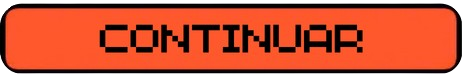
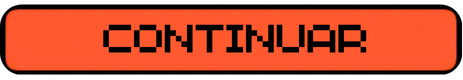
Implementado GestorAudio

diff --git a/src/modelo/GestorAudio.java b/src/modelo/GestorAudio.java
@@ -1,0 +1,117 @@
+package modelo;
+
+import java.io.File;
+import java.util.HashMap;
+import java.util.Map;
+
+import javax.sound.sampled.AudioInputStream;
+import javax.sound.sampled.AudioSystem;
+import javax.sound.sampled.Clip;
+
+import javafx.application.Platform;
+import javafx.scene.media.Media;
+import javafx.scene.media.MediaPlayer;
+
+public class GestorAudio { //Aplica patron Singleton
+	
+	private MediaPlayer musicaFondo;
+    private static GestorAudio instancia;
+
+    private final Map<String, Clip> sonidos = new HashMap<>();
+    private final Map<String, Long> duraciones = new HashMap<>();
+	
+    private GestorAudio(){
+        //FALTA PONER LOS SONIDOS
+        this.cargar("boton-enter"); 
+        this.cargar("boton-hover");
+        this.cargar("boton-click");
+    }
+
+    public static GestorAudio getInstancia(){
+        if (instancia == null){
+            instancia = new GestorAudio();
+        }
+        return instancia;
+    }
+
+    private void cargar(String nombre) { //El SFX debe ser .wav, .mp3 no es compatible
+        File archivo = new File("src/assets/sfx/", nombre + ".wav");
+        try (AudioInputStream flujo = AudioSystem.getAudioInputStream(archivo)) {
+            long milisegundos = (long) (1000 * flujo.getFrameLength() / flujo.getFormat().getFrameRate());
+            Clip clip = AudioSystem.getClip();
+            clip.open(flujo);
+            this.sonidos.put(nombre, clip);
+            this.duraciones.put(nombre, milisegundos);
+        } catch (Exception e) {
+            System.err.println("Fallo al cargar: " + archivo.getAbsolutePath());
+            e.printStackTrace();
+        }
+    }
+
+    public void reproducirEfecto(String nombre) {
+        Clip clip = sonidos.get(nombre);
+        if (clip != null) {
+            clip.setFramePosition(0); // Lo rebobina al inicio
+            clip.start();             // Le da play
+        } else {
+            System.out.println("El efecto '" + nombre + "' no está cargado.");
+        }
+    }
+
+	public void reproducirMusica(String rutaArchivo, double volumen, boolean enBucle) {
+        Platform.runLater(() -> {
+            try {
+                detenerMusica();
+
+                File archivo = new File(rutaArchivo);
+                if (!archivo.exists()) {
+                    System.out.println("Audio no encontrado en: " + rutaArchivo);
+                    return;
+                }
+
+                Media media = new Media(archivo.toURI().toString());
+                musicaFondo = new MediaPlayer(media);
+                musicaFondo.setVolume(volumen); // Rango de 0.0 (mudo) a 1.0 (máximo)
+
+                if (enBucle) {
+                    musicaFondo.setCycleCount(MediaPlayer.INDEFINITE);
+                }
+
+                musicaFondo.play();
+            } catch (Exception e) {
+                System.err.println("Error al reproducir audio: " + e.getMessage());
+            }
+        });
+    }
+
+    public void detenerMusica() {
+        if (musicaFondo != null) {
+            Platform.runLater(() -> {
+                try {
+                    musicaFondo.stop();
+                    musicaFondo.dispose();
+                    musicaFondo = null;
+                } catch (Exception ignored) {}
+            });
+        }
+    }
+
+    public void pausarMusica() {
+        if (musicaFondo != null) {
+            Platform.runLater(() -> musicaFondo.pause());
+        }
+    }
+
+    public void reanudarMusica() {
+        if (musicaFondo != null) {
+            Platform.runLater(() -> musicaFondo.play());
+        }
+    }
+
+    public void setVolumen(double volumen) {
+        if (musicaFondo != null) {
+            Platform.runLater(() -> musicaFondo.setVolume(volumen));
+        }
+    }
+
+}

diff --git a/src/vista/BotonMenu.java b/src/vista/BotonMenu.java
@@ -13,6 +13,8 @@ import java.awt.event.MouseListener;
 import javax.swing.ImageIcon;
 import javax.swing.JButton;
 
+import modelo.GestorAudio;
+
 public class BotonMenu extends JButton {
     
     private boolean hover;
@@ -20,14 +22,26 @@ public class BotonMenu extends JButton {
     private Image imgNormal; 
     private Image imgHover;
 
+    //Rutas de SFX
+    private String sfxHover; 
+    private String sfxClick;
+
     
-    public BotonMenu(String rutaImagen, String rutaHover){
+    public BotonMenu(String rutaImagen, String rutaHover, String rutaSfxHover, String rutaSfxClick){
         if (rutaImagen != null){
             this.imgNormal = new ImageIcon(rutaImagen).getImage();
         }
 
         if (rutaHover != null){
             this.imgHover = new ImageIcon(rutaHover).getImage();
+        }
+
+        if (rutaSfxHover != null){
+            this.sfxHover = rutaSfxHover;
+        }
+
+        if (rutaSfxClick != null){
+            this.sfxClick = rutaSfxClick;
         }
 
         this.hover = false;
@@ -45,7 +59,13 @@ public class BotonMenu extends JButton {
             @Override
             public void mouseEntered(MouseEvent e) {
                 hover = true;
+                GestorAudio.getInstancia().reproducirEfecto(sfxHover);
                 repaint();
+            }
+
+            @Override 
+            public void mousePressed(MouseEvent e) {
+                GestorAudio.getInstancia().reproducirEfecto(sfxClick);
             }
 
             @Override

diff --git a/src/controlador/ControladorPrincipal.java b/src/controlador/ControladorPrincipal.java
@@ -9,16 +9,22 @@ import java.awt.event.ComponentAdapter;
 import java.awt.event.ComponentEvent;
 import java.awt.event.KeyAdapter;
 
+import modelo.GestorAudio;
+
 import vista.PanelMenuPrincipal;
 import vista.Ventana;
 
 public class ControladorPrincipal{
-    private Ventana ventana;
+    private final Ventana ventana;
+    private final GestorAudio gestorAudio;
+
     private final int tiempoSplashMS = 3000;
     private final AtomicBoolean videoTerminado;
 
     public ControladorPrincipal(){
         this.ventana =  new Ventana();
+        this.gestorAudio = GestorAudio.getInstancia();
+
         this.videoTerminado = new AtomicBoolean(false);
 
         //Listeners del menu principal
@@ -31,6 +37,7 @@ public class ControladorPrincipal{
                 if (e.getKeyCode() == KeyEvent.VK_ENTER){
                     if (ventana.getPanelMenu().getPanelEnter().isVisible()){
                        ventana.getPanelMenu().mostrarPanel(PanelMenuPrincipal.BOTONES);;
+                       gestorAudio.reproducirEfecto("boton-enter");
                     }
                 }
             }
@@ -102,6 +109,7 @@ public class ControladorPrincipal{
 
         SwingUtilities.invokeLater(() -> {
             ventana.mostrarTarjeta(Ventana.CARD_MENU_PRINCIPAL);
+            gestorAudio.reproducirMusica("src/assets/bgm/menu.mp3", 1, true);
         });
     }
 }

diff --git a/src/vista/PanelMenuPrincipal.java b/src/vista/PanelMenuPrincipal.java
@@ -37,10 +37,10 @@ public class PanelMenuPrincipal extends JPanel {
         this.imagenOrigen = imagen.getImage();
 
         //Botones
-        this.botonNuevoJuego = new BotonMenu("src/assets/ui/ng-normal.png", "src/assets/ui/ng-hover.png");
-        this.botonContinuar = new BotonMenu("src/assets/ui/co-normal.png", "src/assets/ui/co-hover.png");
-        this.botonOpciones = new BotonMenu("src/assets/ui/opc-normal.png", "src/assets/ui/opc-hover.png");
-        this.botonSalir = new BotonMenu ("src/assets/ui/exit-normal.png", "src/assets/ui/exit-hover.png");
+        this.botonNuevoJuego = new BotonMenu("src/assets/ui/ng-normal.png", "src/assets/ui/ng-hover.png", "src/assets/sfx/boton-hover", "src/assets/sfx/boton-click");
+        this.botonContinuar = new BotonMenu("src/assets/ui/co-normal.png", "src/assets/ui/co-hover.png", "src/assets/sfx/boton-hover", "src/assets/sfx/boton-click");
+        this.botonOpciones = new BotonMenu("src/assets/ui/opc-normal.png", "src/assets/ui/opc-hover.png", "src/assets/sfx/boton-hover", "src/assets/sfx/boton-click");
+        this.botonSalir = new BotonMenu ("src/assets/ui/exit-normal.png", "src/assets/ui/exit-hover.png", "src/assets/sfx/boton-hover", "src/assets/sfx/boton-click");
 
         //Titulo
         Splash imagenTitulo = new Splash("src/assets/title.png");
